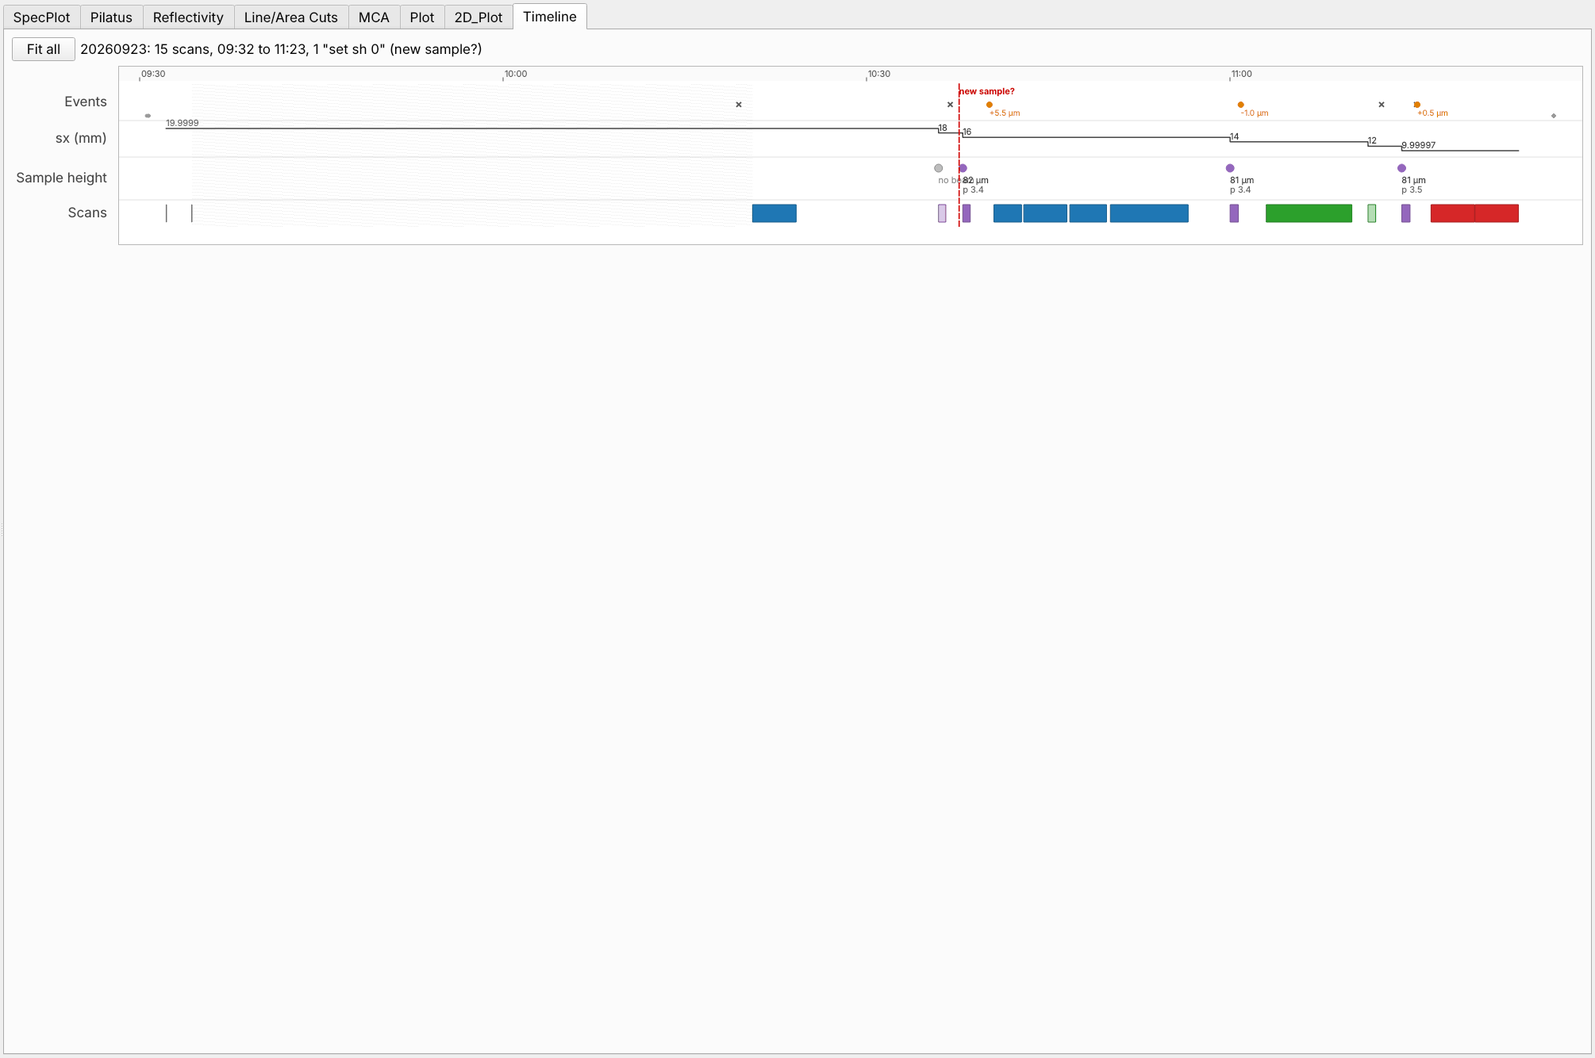
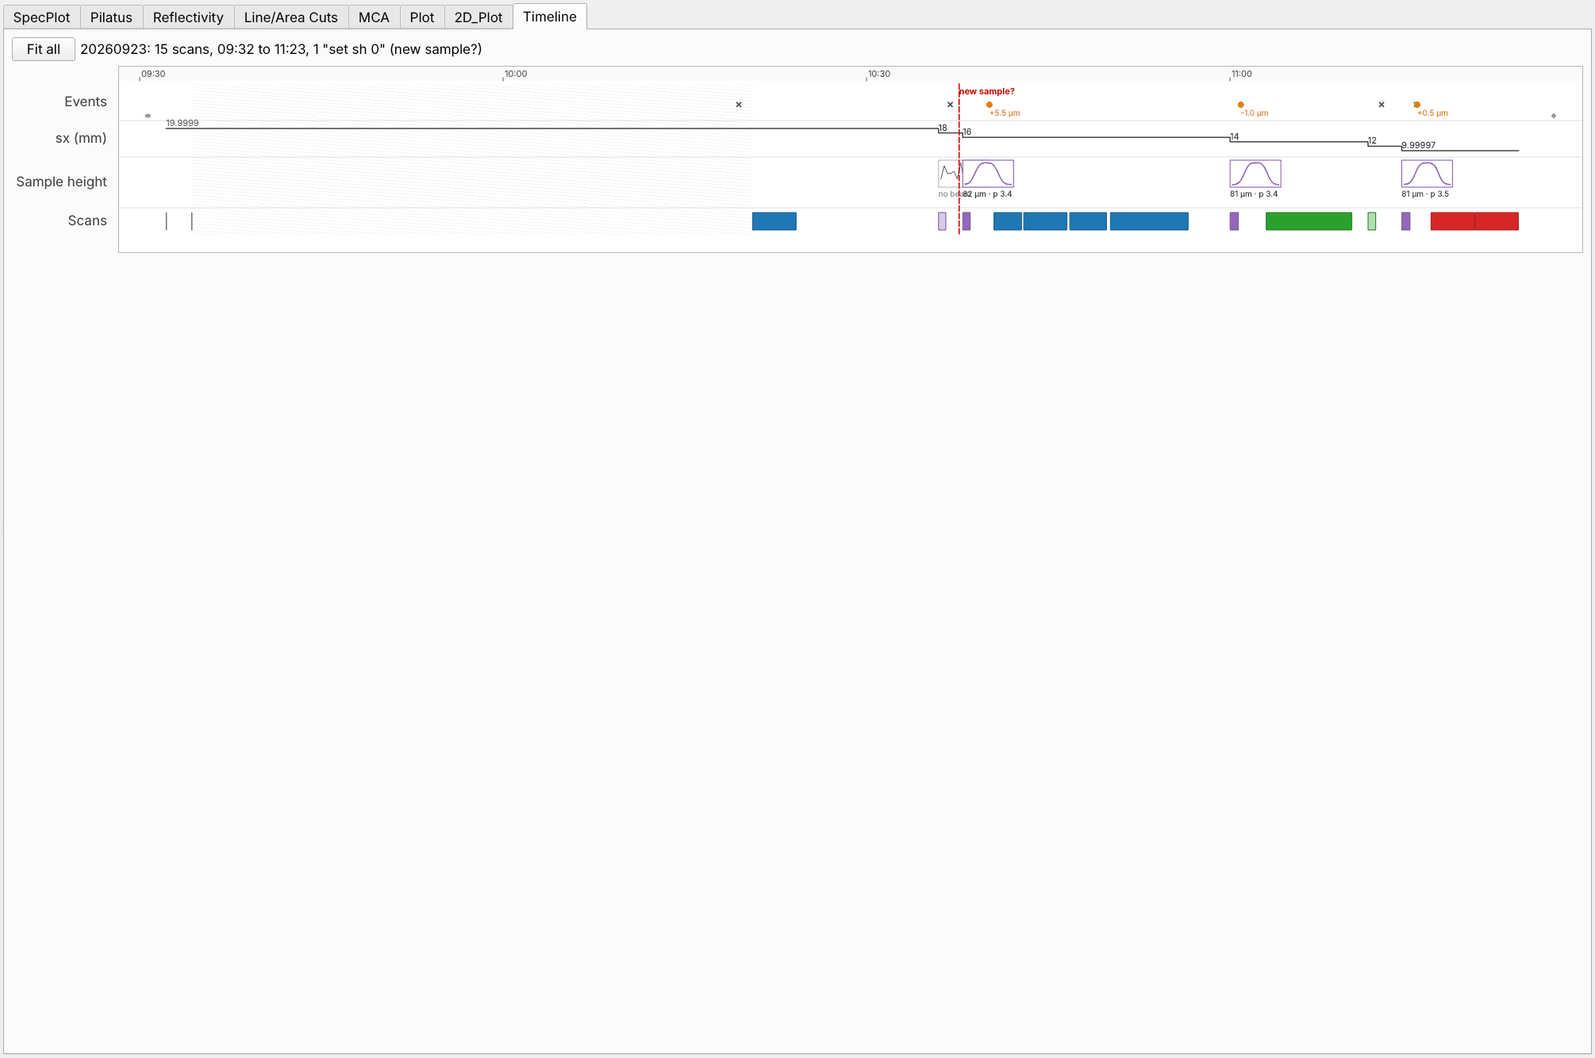
Timeline: sample-height scans drawn as thumbnails (points and super-Gaussian)
F83 phase 1c, research §5 (lane 3, "thumbnails with FWHM and p").

The height lane now shows each sh scan as a HeightThumb, 64 × 34 px at
every zoom (it ignores the view's transform):
- its Pilatus/Monc points in grey, and its super-Gaussian in purple when
  fitted;
- a purple frame, or a grey one with "no beam";
- FWHM and p under it;
- the tooltip and click-to-open, as before.

lss_core.timeline.HeightScan keeps the scan's points (x, and y as
fitted, on the mean monitor's scale).

Seen on NX: scan 4's noise in a grey frame; scans 5, 10 and 13
flat-topped.

Tests: test_gui_timeline.py::test_the_sample_height_scans_are_drawn_as_thumbnails.

Docs: MANUAL_NOTES, physics_notes, the inventory note, the research
table, FEATURE_REQUESTS, TODO, the screenshot 14_timeline_tab.png.

Quick suite: 1101 passed.

Claude-Session: https://claude.ai/code/session_017UNj93eCQ98icFoDfMzdiH

diff --git a/timelineview.py b/timelineview.py
@@ -28,7 +28,8 @@ from PyQt5.QtWidgets import (QGraphicsEllipseItem, QGraphicsItem, QGraphicsPathI
                              QPushButton, QVBoxLayout, QWidget)
 
 AXIS_H = 22                                   # px at the top for the time axis
-LANES = (('events', 'Events', 46), ('sx', 'sx (mm)', 46), ('height', 'Sample height', 54), ('scans', 'Scans', 34))
+LANES = (('events', 'Events', 46), ('sx', 'sx (mm)', 46), ('height', 'Sample height', 64), ('scans', 'Scans', 34))
+THUMB_W, THUMB_H = 64, 34                     # px: a sample-height scan's thumbnail
 KIND_COLOURS = {'reflectivity': '#1f77b4', 'gid': '#2ca02c', 'height': '#9467bd', 'burn': '#d62728',
                 'xfntr': '#ff7f0e', 'gisaxs': '#17becf', 'energy': '#bcbd22', 'other': '#8c8c8c'}
 EVENT_COLOURS = {'set-zero': '#d00000', 'reset': '#e08000', 'abort': '#555555', 'macro': '#9a9a9a',
@@ -55,6 +56,54 @@ def tick_step(span_s, target=8):
         if span_s / s <= target:
             return s
     return TICK_STEPS[-1] * max(1, int(span_s / TICK_STEPS[-1] / target))
+
+
+class HeightThumb(QGraphicsItem):
+    """A sample-height scan drawn small: the data (grey) and its
+    super-Gaussian fit (purple), at a fixed size in pixels (it ignores the
+    zoom); framed purple when fitted, grey when there was no beam."""
+
+    def __init__(self, x, y, model=None, ok=True):
+        super().__init__()
+        self.setFlag(QGraphicsItem.ItemIgnoresTransformations)
+        self.points, self.fit = self._map(x, y, model)
+        self.ok = ok
+
+    @staticmethod
+    def _map(x, y, model):
+        import numpy as np
+        if x is None or y is None or len(x) < 2:
+            return [], []
+        x, y = np.asarray(x, float), np.asarray(y, float)
+        good = np.isfinite(x) & np.isfinite(y)
+        x, y = x[good], y[good]
+        if len(x) < 2 or np.ptp(x) == 0:
+            return [], []
+        xf = np.linspace(x.min(), x.max(), 60)
+        yf = model(xf) if model is not None else None
+        allv = np.r_[y, yf] if yf is not None else y
+        lo, hi = float(np.min(allv)), float(np.max(allv))
+        span = hi - lo if hi > lo else 1.0
+
+        def pts(xx, yy):
+            return [((xi - x.min()) / np.ptp(x) * (THUMB_W - 6) + 3, THUMB_H - 3 - (yi - lo) / span * (THUMB_H - 6))
+                    for xi, yi in zip(xx, yy)]
+        return pts(x, y), (pts(xf, yf) if yf is not None else [])
+
+    def boundingRect(self):
+        return QRectF(0, 0, THUMB_W, THUMB_H)
+
+    def paint(self, painter, option, widget=None):
+        from PyQt5.QtCore import QPointF
+        painter.setBrush(QBrush(QColor('white')))
+        painter.setPen(QPen(QColor(KIND_COLOURS['height'] if self.ok else '#bdbdbd'), 1.2))
+        painter.drawRect(self.boundingRect())
+        if self.points:
+            painter.setPen(QPen(QColor('#555555'), 1.0))
+            painter.drawPolyline(*[QPointF(px, py) for px, py in self.points])
+        if self.fit:
+            painter.setPen(QPen(QColor(KIND_COLOURS['height']), 1.4))
+            painter.drawPolyline(*[QPointF(px, py) for px, py in self.fit])
 
 
 class TimelineView(QGraphicsView):
@@ -174,17 +223,21 @@ class TimelineView(QGraphicsView):
             f = hs.fit
             x = self._x(hs.t)
             if f.ok:
-                tip = ('S# %d, sample-height scan (sx %s mm): %s. A usable scan is wide (about 65 µm or more) and '
-                       'flatter than a Gaussian, p > 2 (owner, F78); no verdict is drawn: the thresholds are the '
-                       'owner\'s to give. Click: open the scan with its fit.'
+                tip = ('S# %d, sample-height scan (sx %s mm): %s. Grey: Pilatus/Monc; purple: the super-Gaussian. '
+                       'A usable scan is wide (about 65 µm or more) and flatter than a Gaussian, p > 2 (owner, F78); '
+                       'no verdict is drawn: the thresholds are the owner\'s to give. Click: open the scan with its fit.'
                        % (hs.scan, hs.sx, f.summary('µm', 1000.0)))
-                item = self._marker(x, y + 14, 5, KIND_COLOURS['height'], tip, ('scan', hs.scan))
-                self._label('%.0f µm' % (f.fwhm * 1000.0), x, y + 22, tip=tip)
-                self._label('p %.1f' % f.p, x, y + 34, colour='#666666', tip=tip)
+                text = '%.0f µm · p %.1f' % (f.fwhm * 1000.0, f.p)
             else:
                 tip = 'S# %d, sample-height scan: %s. Click: open the scan.' % (hs.scan, f.message)
-                item = self._marker(x, y + 14, 5, '#bdbdbd', tip, ('scan', hs.scan), outline='#8c8c8c')
-                self._label('no beam', x, y + 22, colour='#8c8c8c', tip=tip)
+                text = 'no beam'
+            item = HeightThumb(hs.x, hs.y, f.model if f.ok else None, f.ok)
+            item.setPos(x, y + 4)
+            item.setToolTip(tip)
+            item.setData(0, ('scan', hs.scan))
+            item.setCursor(Qt.PointingHandCursor)
+            self.scene().addItem(item)
+            self._label(text, x, y + 4 + THUMB_H + 2, colour='#333333' if f.ok else '#8c8c8c', tip=tip, size=7)
             self.items['heights'][hs.scan] = item
 
     def _steps(self, tl, motor='Sample_X'):

diff --git a/lss_core/timeline.py b/lss_core/timeline.py
@@ -109,6 +109,8 @@ class HeightScan:
     t: float
     fit: peaks.SuperGaussianFit
     sx: float = None
+    x: np.ndarray = None            # sh, as scanned
+    y: np.ndarray = None            # Pilatus / Monc, on the mean monitor's scale (what is fitted)
 
 
 @dataclass
@@ -283,10 +285,14 @@ def build(exp, motors=DEFAULT_MOTORS, gap_minutes=GAP_MINUTES, fit_heights=True)
             continue
         cols = exp.scans[s.scan].columns
         sx = exp.scans[s.scan].parameters.get('Sample_X')
+        x = y = None
         if fit_heights and 'Pilatus' in cols and 'Monc' in cols and cols:
-            x = cols[next(iter(cols))]
+            x = np.asarray(cols[next(iter(cols))], float)
+            m = np.asarray(cols['Monc'], float)
+            with np.errstate(divide='ignore', invalid='ignore'):
+                y = np.asarray(cols['Pilatus'], float) / m * float(np.mean(m))
             fit = peaks.fit_super_gaussian(x, cols['Pilatus'], cols['Monc'])
         else:
             fit = peaks.SuperGaussianFit(False, 'no Pilatus and Monc columns' if fit_heights else 'not fitted')
-        tl.heights.append(HeightScan(s.scan, s.t0, fit, sx if isinstance(sx, (int, float)) else None))
+        tl.heights.append(HeightScan(s.scan, s.t0, fit, sx if isinstance(sx, (int, float)) else None, x, y))
     return tl

diff --git a/tests/test_gui_timeline.py b/tests/test_gui_timeline.py
@@ -118,3 +118,20 @@ def test_tick_steps_are_clock_friendly():
     assert timelineview.tick_step(3600) == 600
     assert timelineview.tick_step(7 * 3600) == 3600
     assert timelineview.tick_step(10 * 86400) >= 86400
+
+
+@needs_nx
+def test_the_sample_height_scans_are_drawn_as_thumbnails(nx, qapp, recorder):
+    """Each sh scan small: its Pilatus/Monc points and, when fitted, the
+    super-Gaussian; a fixed size in pixels at every zoom; a click opens it."""
+    v = _show(nx, qapp).view
+    th = v.items['heights']
+    assert all(isinstance(t, timelineview.HeightThumb) for t in th.values())
+    assert len(th[10].points) == len(nx.timelineTab.view.timeline.heights[2].x) and th[10].fit and th[10].ok
+    assert th[4].points and not th[4].fit and not th[4].ok          # no beam: the points, no fit, grey
+    r = th[10].mapRectToScene(th[10].boundingRect())
+    v.zoom(4.0)
+    assert th[10].boundingRect().width() == timelineview.THUMB_W    # ignores the zoom
+    assert th[10].data(0) == ('scan', 10)
+    assert recorder.exceptions == []
+

diff --git a/docs/FEATURE_REQUESTS.md b/docs/FEATURE_REQUESTS.md
@@ -387,7 +387,7 @@ order"), for a day of reflectivity only; the whole answer is in
 | F82 | **A prototype of the new layout (ngui), off by default, enabled in Preferences** (owner, 2026-11-23: "I think you know enough to make a prototype new-GUI, which will be off by default and enabled in the preferences. Take a stab at reorganizing the contents and theme of all the tabs, such as Pilatus, reflectivity, 2D plot etc. You don't have to build anything functional at first, you can just sketch it out."). Design: `docs/gui/prototype.md` (tabs by workflow in the order of the day, one template per tab, one frame viewer, provenance strip, state bar, panes under the tabs). Built from a layout table that places every inventoried control or retires it with a reason (a test checks). |
 | D61 | **In ngui, saving is automatic, one Save… button per result keeps notes and new versions, and Export moves to the File menu** (owner, 2026-11-23: "I think in the new GUI 'saving' (to the excel file or HDF5) is automatic and exporting becomes a less-used option that can be called from the file menu, rather than sticking buttons everywhere. That means no more save or export buttons anywhere in new GUI, which i'll call ngui"; then "I did like the ability to save notes when saving a reduction. Perhaps I spoke too soon on the 'no saving' buttons"). Then: "The use-case this misses is when people change reduction parameters and save again". Settled for the prototype: automatic saving (as D56); one small Save… button per result saves it as a version with a note, and when the result is the one just saved automatically the note goes on that version instead of a copy, so changing parameters and pressing Save… again gives a new noted version; the provenance strip shows the saved version and also offers a note; File > Export… writes text files (with options such as + covariance). The new GUI is called **ngui**. |
 | D62 | **Who does what, and the GUI priorities** (owner, 2026-11-23): "I've moved the other agents under you [Main] … you should dole out work to them as needed. 'questor' is a docs updater that prods me for input and can also be given limited-scope fetch and edit tasks. 'tools man' is general purpose, and 'GUI manager' is more focused on workflow and interfacing. You are an orchestrator and sometimes general-purpose agent." And: "The main GUI is the priority, with extra time spent on the timeline tab and then greenfield stuff" (ngui); ideas and tabs from ngui may be used in the main GUI. Recorded in `AGENTS.md`, "Sessions". |
-| F83 | **A sample timeline tab** (owner, 2026-11-23: "it would be nice to have a sample timeline tab, with sample height scan thumbnails, the 'sx' motions, new sample changes ('set sh 0' is almost always a new sample, occasionally used on the same sample but after some conditions have changed), tensiometer, barrier, reduced data thumbnails with colored text-box placeholders in the rare case where needed. This sample timeline tab is a bit of a doozy, meaning a large subproject, so put a subagent on it to do some research first."). Research first: `docs/gui/timeline/research.md` (what the SPEC files and the workbook can supply, design options, effort, questions). **Built 2026-11-24** (GUI manager): phase 1a (`peaks.fit_super_gaussian`, F78) and phase 1b (`lss_core/timeline.py`: spans, events, steps, sh fits, mnemonics). Phase 1c, a first version of the tab, **in the main window** (owner 2026-11-24): lanes for events, sx, sh scans and scans; zoom, pan, tooltips, click to open a scan (`timelineview.py`). **Not yet:** sh thumbnails, notes and confirming 'new sample?', the reduced-data and environment lanes. |
+| F83 | **A sample timeline tab** (owner, 2026-11-23: "it would be nice to have a sample timeline tab, with sample height scan thumbnails, the 'sx' motions, new sample changes ('set sh 0' is almost always a new sample, occasionally used on the same sample but after some conditions have changed), tensiometer, barrier, reduced data thumbnails with colored text-box placeholders in the rare case where needed. This sample timeline tab is a bit of a doozy, meaning a large subproject, so put a subagent on it to do some research first."). Research first: `docs/gui/timeline/research.md` (what the SPEC files and the workbook can supply, design options, effort, questions). **Built 2026-11-24** (GUI manager): phase 1a (`peaks.fit_super_gaussian`, F78) and phase 1b (`lss_core/timeline.py`: spans, events, steps, sh fits, mnemonics). Phase 1c, a first version of the tab, **in the main window** (owner 2026-11-24): lanes for events, sx, sh scans and scans; zoom, pan, tooltips, click to open a scan (`timelineview.py`). sh thumbnails added the same day. **Not yet:** notes and confirming 'new sample?', the reduced-data and environment lanes. |
 | F80 | **Stability across places and time** (owner, 2026-11-23: "We continue to take reflect data and compare the processed/reduced data together in reader from different sample areas or just as time goes by, to check stability of sample"). Needs: the reflectivities saved in the open SPEC file's workbook overlaid by series, time or sx in one action, with their ratios to the first; today this means exporting and adding the files back. |
 | F84 | **A Tools menu holding every demonstration and figure generator, generated without staleness** (owner, 2026-11-23: "Look at including all the demonstrations and figure generators in this repo into entries in reader's tools menu. Make sure they are generated without staleness, meaning they are built from what's in the repo and so don't drift. The repo is where the documentation is strongest and where those figure generator products also live. The largest part of this task is recognizing and surfacing all the demonstrations and figures in the repo. Then comes building homes for them in reader's gui, and keeping the documentation up to date with what you're doing, so that 'change this parameter and regenerate the figure to demonstrate this particular concept' lines in the docs become reality."; and "you can build and test all the menu items and their interactive GUI pages separate from the main project"). **Built 2026-11-23**: `lss_toolbox/` (catalogue of 36 items, the Tools window, the menu; `python -m lss_toolbox`), `docs/TOOLS.md`, `tests/test_toolbox*.py`; the reader gains one call (`initToolsMenu`). |
 

diff --git a/docs/TODO.md b/docs/TODO.md
@@ -18,7 +18,7 @@ go-ahead on 2026-11-17 ("begin the implementation plan").
 | Session | Now | Next |
 |---|---|---|
 | Main (orchestrator) | ~~F81 repeats summed (ΣN/ΣM)~~, ~~F91 "Sum All" really sums, every view per Monc~~, ~~F87 burn kind from Det_Th > 2°~~, ~~P47 per-frame incidence~~, ~~half-written SPEC lines~~: all done 2026-11-23 | **from 1:00 am America/Chicago, 2026-11-24: the owner's two decision studies and the ELI5 rationale** (`docs/studies/2026-11-24_two_decisions_plan.md`; study A, the reflectivity guard, is Main's); the rest of area L (fragile assumptions); the list-text lookups as item data (`Qt.UserRole`) once GUI manager says F88/F69 has merged (agreed 2026-11-24); F79 Qoff from R/R_F continuity, F97 diffuse cut axes, F98 dose axis (core parts), F92 masks: to be assigned |
-| GUI manager | ~~F88 sticky display, F69 movie~~ (merged #34, 2026-11-24: the image display functions are free); ~~F86 Reduction options~~, ~~Q-GID-5~~, ~~Q-UI-A10~~ (#32); **F96** Ref Patch window: Back, Cancel, join table, the line under the Reflectivity plot (built 2026-11-24; the live replay of accepted joins later); **F95** B6 and the B3 list, **F74** residual panels on scan, cut and burn fits, **F97** saturation cue, **F78** super-Gaussian height-scan fit (timeline 1a) (built 2026-11-24) | timeline 1c's next steps (the first tab is built: sh thumbnails, notes and 'new sample?' confirmation, the reduced-data lane); F95's ROI threshold, B9, B10; F97's diffuse axes (the ROI close-up built 2026-11-24); then ngui |
+| GUI manager | ~~F88 sticky display, F69 movie~~ (merged #34, 2026-11-24: the image display functions are free); ~~F86 Reduction options~~, ~~Q-GID-5~~, ~~Q-UI-A10~~ (#32); **F96** Ref Patch window: Back, Cancel, join table, the line under the Reflectivity plot (built 2026-11-24; the live replay of accepted joins later); **F95** B6 and the B3 list, **F74** residual panels on scan, cut and burn fits, **F97** saturation cue, **F78** super-Gaussian height-scan fit (timeline 1a) (built 2026-11-24) | timeline 1c's next steps (the tab and its sh thumbnails are built: notes and 'new sample?' confirmation, the reduced-data lane); F95's ROI threshold, B9, B10; F97's diffuse axes (the ROI close-up built 2026-11-24); then ngui |
 | tools man | the Pilatus 100K sizes hard-coded in `mainwindow.py` and `gid.py` (TODO area L, the last row) | the F90 demo wrap-up (`docs/reports/mca_fit_demo.md`, the beam-energy figure, Tools menu variations; the owner paused the synthetic MCA project, 2026-11-24), then Q-BURN-6 |
 | questor | the owner's questions and their answers in `docs/`; the data needs (`docs/DATA_NEEDS.md`, with tools man's blank-spectrum request) | (its own order) |
 

diff --git a/docs/gui/timeline/research.md b/docs/gui/timeline/research.md
@@ -359,7 +359,7 @@ is about one tranche of code, tests and docs).
 | 0 (done) | This research, mock, survey tool | — | — |
 | 1a | F78 super-Gaussian fit in `lss_core.peaks` with the no-beam guard; synthetic known-truth tests; shown in the Scans tab — **built 2026-11-24** (`peaks.fit_super_gaussian`, SpecPlot; `tests/test_super_gaussian.py`) | — | 1 |
 | 1b | `lss_core/timeline.py`: events (`reset`, abort, `do`, session restart, gaps), mnemonic map, sh scans, sx steps, scan spans; reset comments collected in `spec_routines` (`Par['Resets']`, with a test); incremental update — **built 2026-11-24** (`lss_core/timeline.py`, `tests/test_timeline.py`). Changed from the plan: it reads the dated `#C` lines itself instead of through `spec_routines`, because the macro loads sit in the file header, which belongs to no scan block; and it is rebuilt rather than updated in place (36 ms for the NX file) | — | 1–2 |
-| 1c | ~~ngui~~ **main-window** Timeline tab (owner, 2026-11-24; **first version built 2026-11-24**: `timelineview.py`, lanes, zoom, pan, tooltips, click; thumbnails and notes to come): QGraphicsView lanes (events, sx, sh thumbnails, scans), zoom and pan, level of detail, tooltips, click to open the scan; live append | ngui shell, 1a, 1b | 2–3 |
+| 1c | ~~ngui~~ **main-window** Timeline tab (owner, 2026-11-24; **first version built 2026-11-24**: `timelineview.py`, lanes, zoom, pan, tooltips, click, sh thumbnails; notes to come): QGraphicsView lanes (events, sx, sh thumbnails, scans), zoom and pan, level of detail, tooltips, click to open the scan; live append | ngui shell, 1a, 1b | 2–3 |
 | 1d | Reduced lane from the workbook (one-pass read, pixmap cache by `content`), placeholders, click to open the result; notes as Saved rows of kind `note` with Add/Edit; "new sample?" confirm/reject | 1c | 1–2 |
 | 2 | Environment lanes: any column chosen as a strip chart, sharing F75's burn panels; synthetic environment columns (`tests/synthetic/`) so it can be built before the macros write them | F75 columns' names; can be started with synthetic data | 1 |
 | 3 | Sample change from evidence: the O₂ rise and barrier or tensiometer jumps, gaps, half-cuts; or an explicit macro line (Q-TL-2); several SPEC files of one beamtime on one axis (Q-TL-3) | owner's answers | 1–2 |

diff --git a/docs/gui/inventory.md b/docs/gui/inventory.md
@@ -510,7 +510,7 @@ Generated by `python tests/tools/gui_map.py` from `docs/gui/inventory/*.yaml`; d
 | Id | Kind | Label | Where | Handler | Does | Workflows | Needs | Shown | Tooltip | Notes |
 |---|---|---|---|---|---|---|---|---|---|---|
 | `timelineTab` | tab | Timeline | Main window tabs, last | timelineTabShown | The sample timeline: events (set sh 0 as new sample?, re-referencing, aborts, macro loads, session restarts, gaps), sx, sample-height scans with FWHM and p, scan bars by kind, on the file's local clock | session | a SPEC file | always | True | Read when the tab is shown and again when the file changed (Update, Live); 36 ms for the NX file. Research: docs/gui/timeline/research.md. |
-| `timelineView` | plot |  | Timeline | timelineScanClicked | The lanes (QGraphicsView): wheel zooms the time axis about the cursor, drag pans, double-click fits; a click on a scan bar or an sh scan selects that scan | session | a SPEC file | always | True | Every item has a tooltip (rule 9). Not yet: thumbnails of the sh scans, notes, the reduced-data and environment lanes (research section 5). |
+| `timelineView` | plot |  | Timeline | timelineScanClicked | The lanes (QGraphicsView): wheel zooms the time axis about the cursor, drag pans, double-click fits; a click on a scan bar or an sh scan selects that scan | session | a SPEC file | always | True | Every item has a tooltip (rule 9). The sh scans are thumbnails (points and fit, a fixed size in pixels) since 2026-11-24. Not yet: notes, the reduced-data and environment lanes (research section 5). |
 | `timelineFitPushButton` | button | Fit all | Timeline > top | fit_all | Shows the whole file | session |  | always | True |  |
 | `timelineInfoLabel` | label | 20260923: 15 scans, 09:32 to 11:23, 1 set sh 0 (new sample?) | Timeline > top | show_timeline | What is shown: the file, the number of scans, the time range on its local clock, the set sh 0 count; its tooltip says where each lane comes from | session |  | always | True |  |
 

diff --git a/docs/MANUAL_NOTES.md b/docs/MANUAL_NOTES.md
@@ -366,8 +366,9 @@ Each line: feature — where — default — script — notes entry (date).
     crosses for aborted scans; small grey dots for macro files loaded; a
     dotted line where SPEC reopened the file.
   - **sx:** the sample's x position, from each scan's header.
-  - **Sample height:** each sh scan with its FWHM and flatness p (a grey dot
-    when the scan saw no reflected beam).
+  - **Sample height:** each sh scan as a small picture of its points (grey)
+    and its super-Gaussian fit (purple), with its FWHM and flatness p under
+    it; a grey frame and "no beam" when the scan saw no reflected beam.
   - **Scans:** one bar per scan, coloured by kind (reflectivity blue, GID
     green, sample height purple, burn red); aborted scans are paler.
   - Long gaps without scans are hatched across every lane.

diff --git a/docs/physics_notes.md b/docs/physics_notes.md
@@ -5503,3 +5503,13 @@ It is so: the last tab, after 2D_Plot (seen in a window: SpecPlot,
 Pilatus, Reflectivity, Line/Area Cuts, MCA, Plot, 2D_Plot, Timeline).
 Verified by: test (`test_gui_timeline.py::test_the_tab_is_last_and_says_what_to_do_before_a_file`).
 
+### 2026-11-24 — Timeline: sample-height scans as thumbnails
+
+The height lane now draws each sh scan small, 64 × 34 px at every zoom:
+its Pilatus/Monc points (grey), and its super-Gaussian (purple) when
+fitted. `lss_core.timeline.HeightScan` keeps the points (x, y), with y
+the values fitted, on the mean monitor's scale. Seen on NX (scan 4's
+noise in a grey frame; scans 5, 10 and 13 flat-topped). Verified by:
+tested (`test_gui_timeline.py::test_the_sample_height_scans_are_drawn_as_thumbnails`).
+No output number changes.
+
